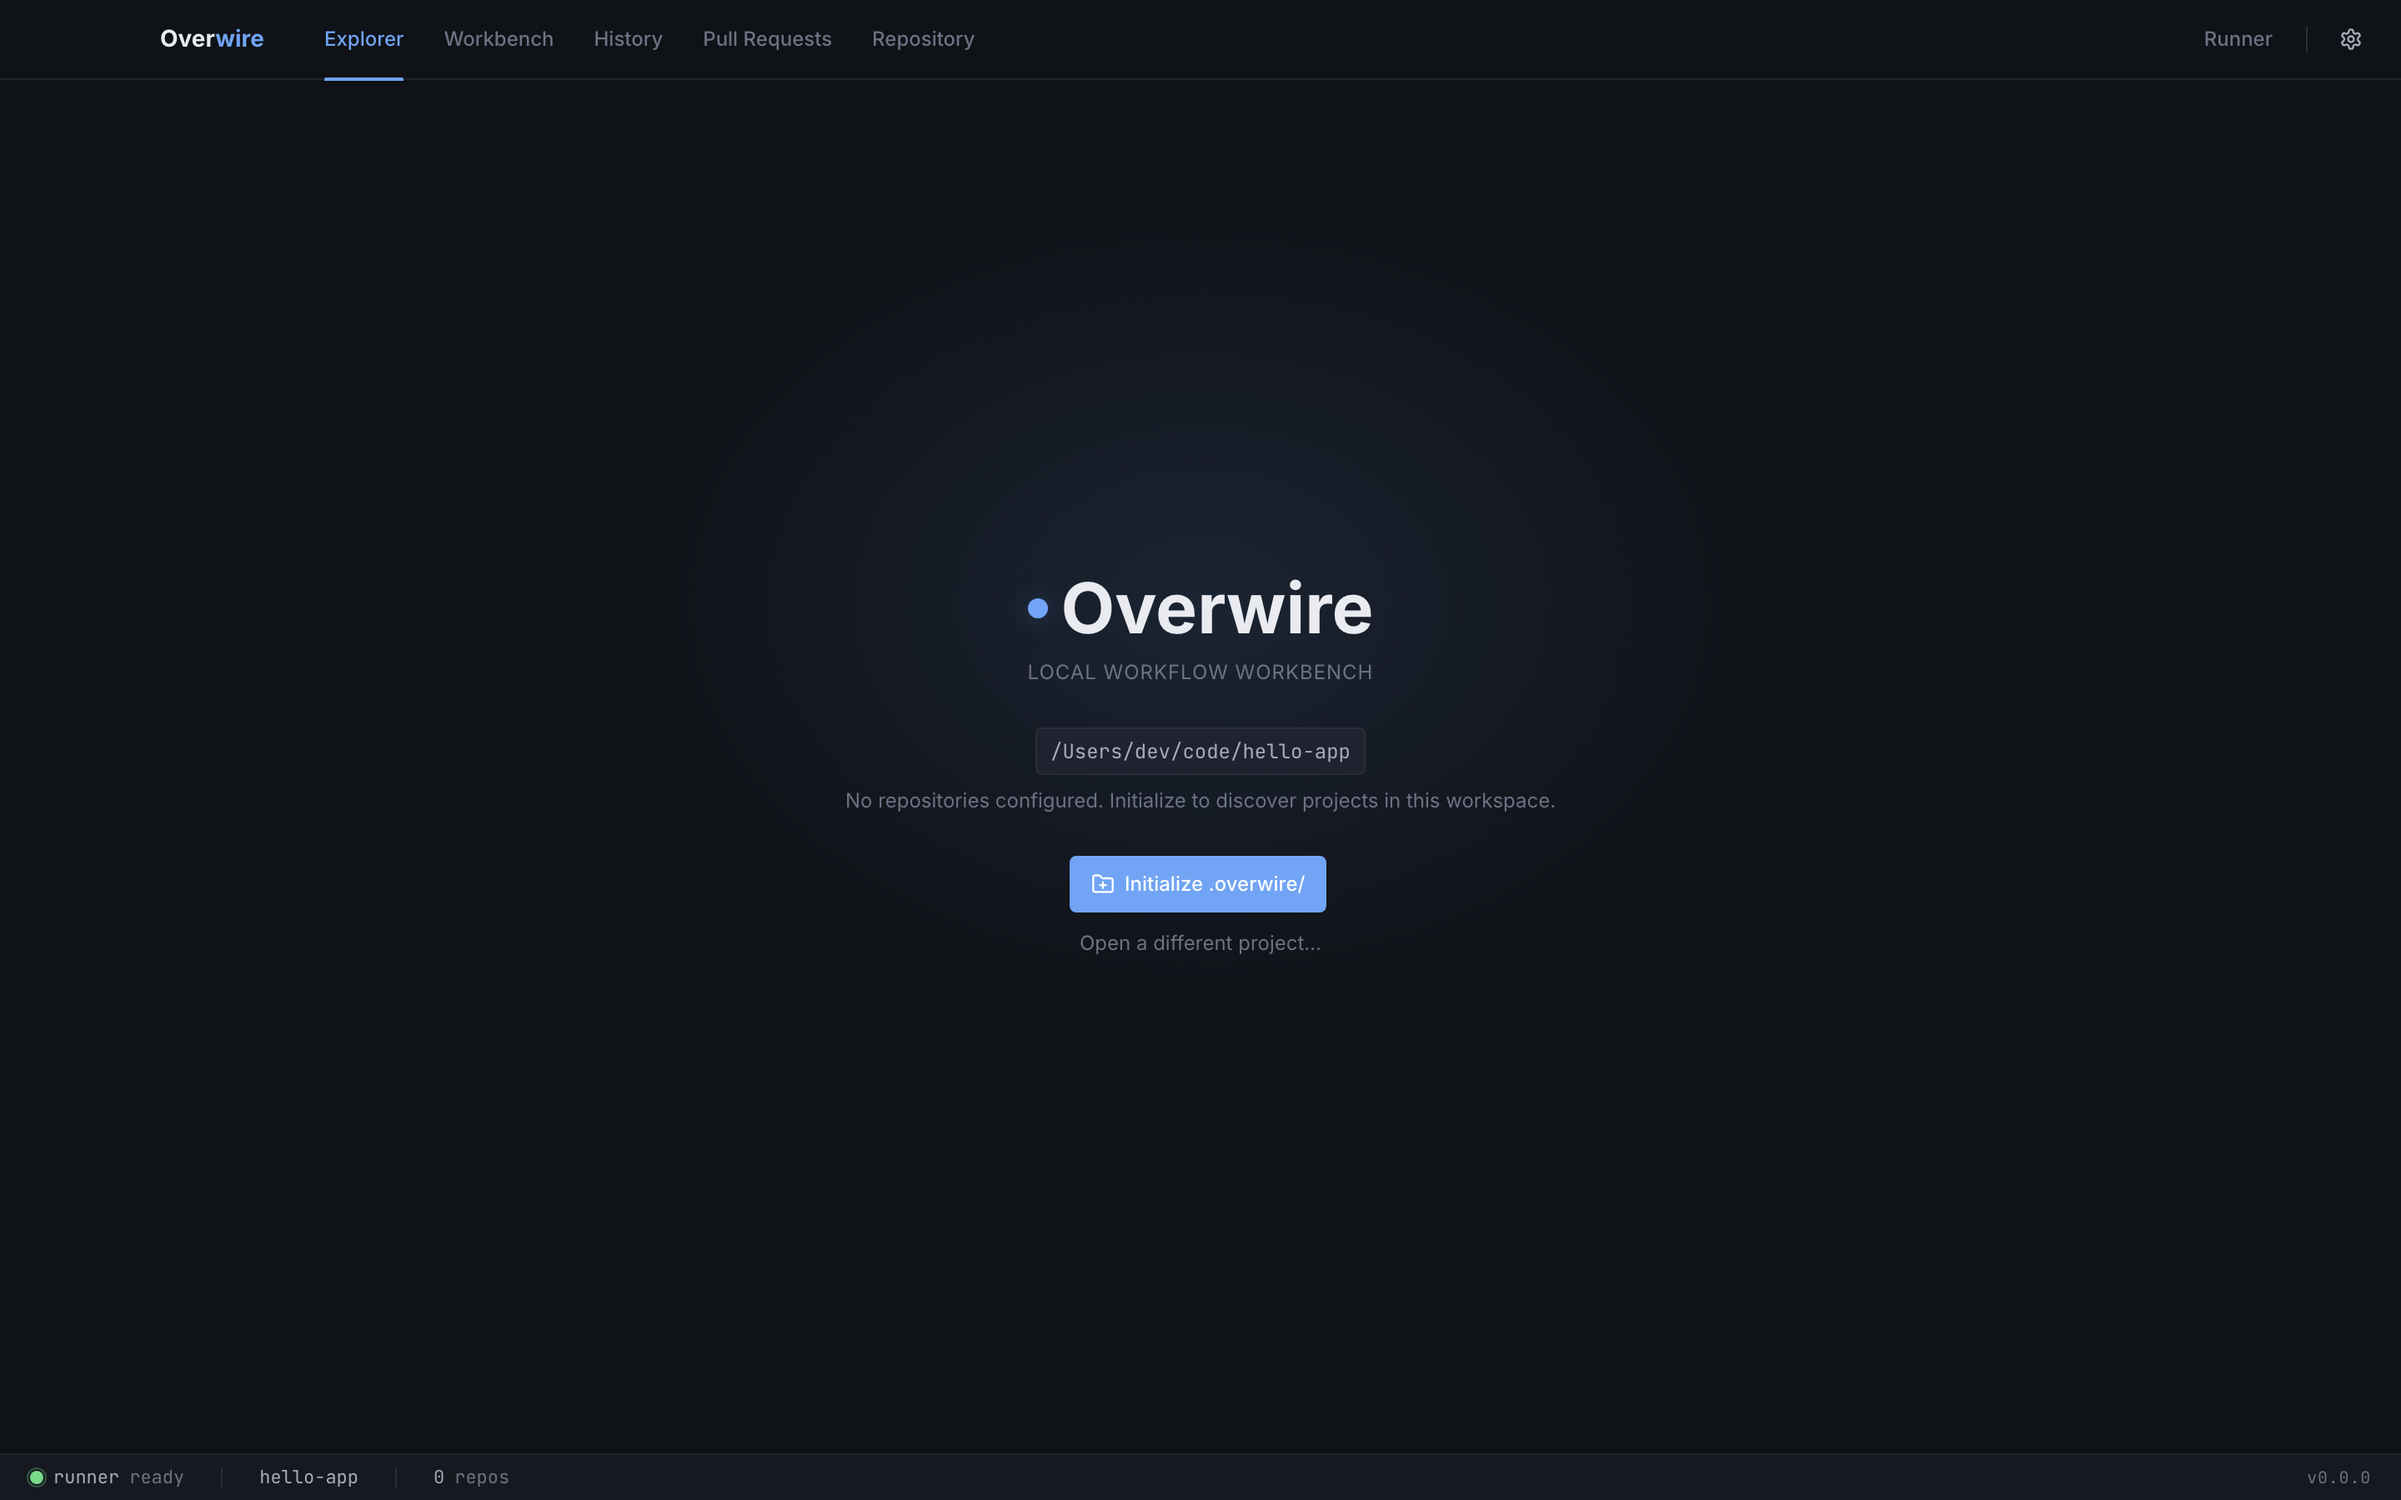
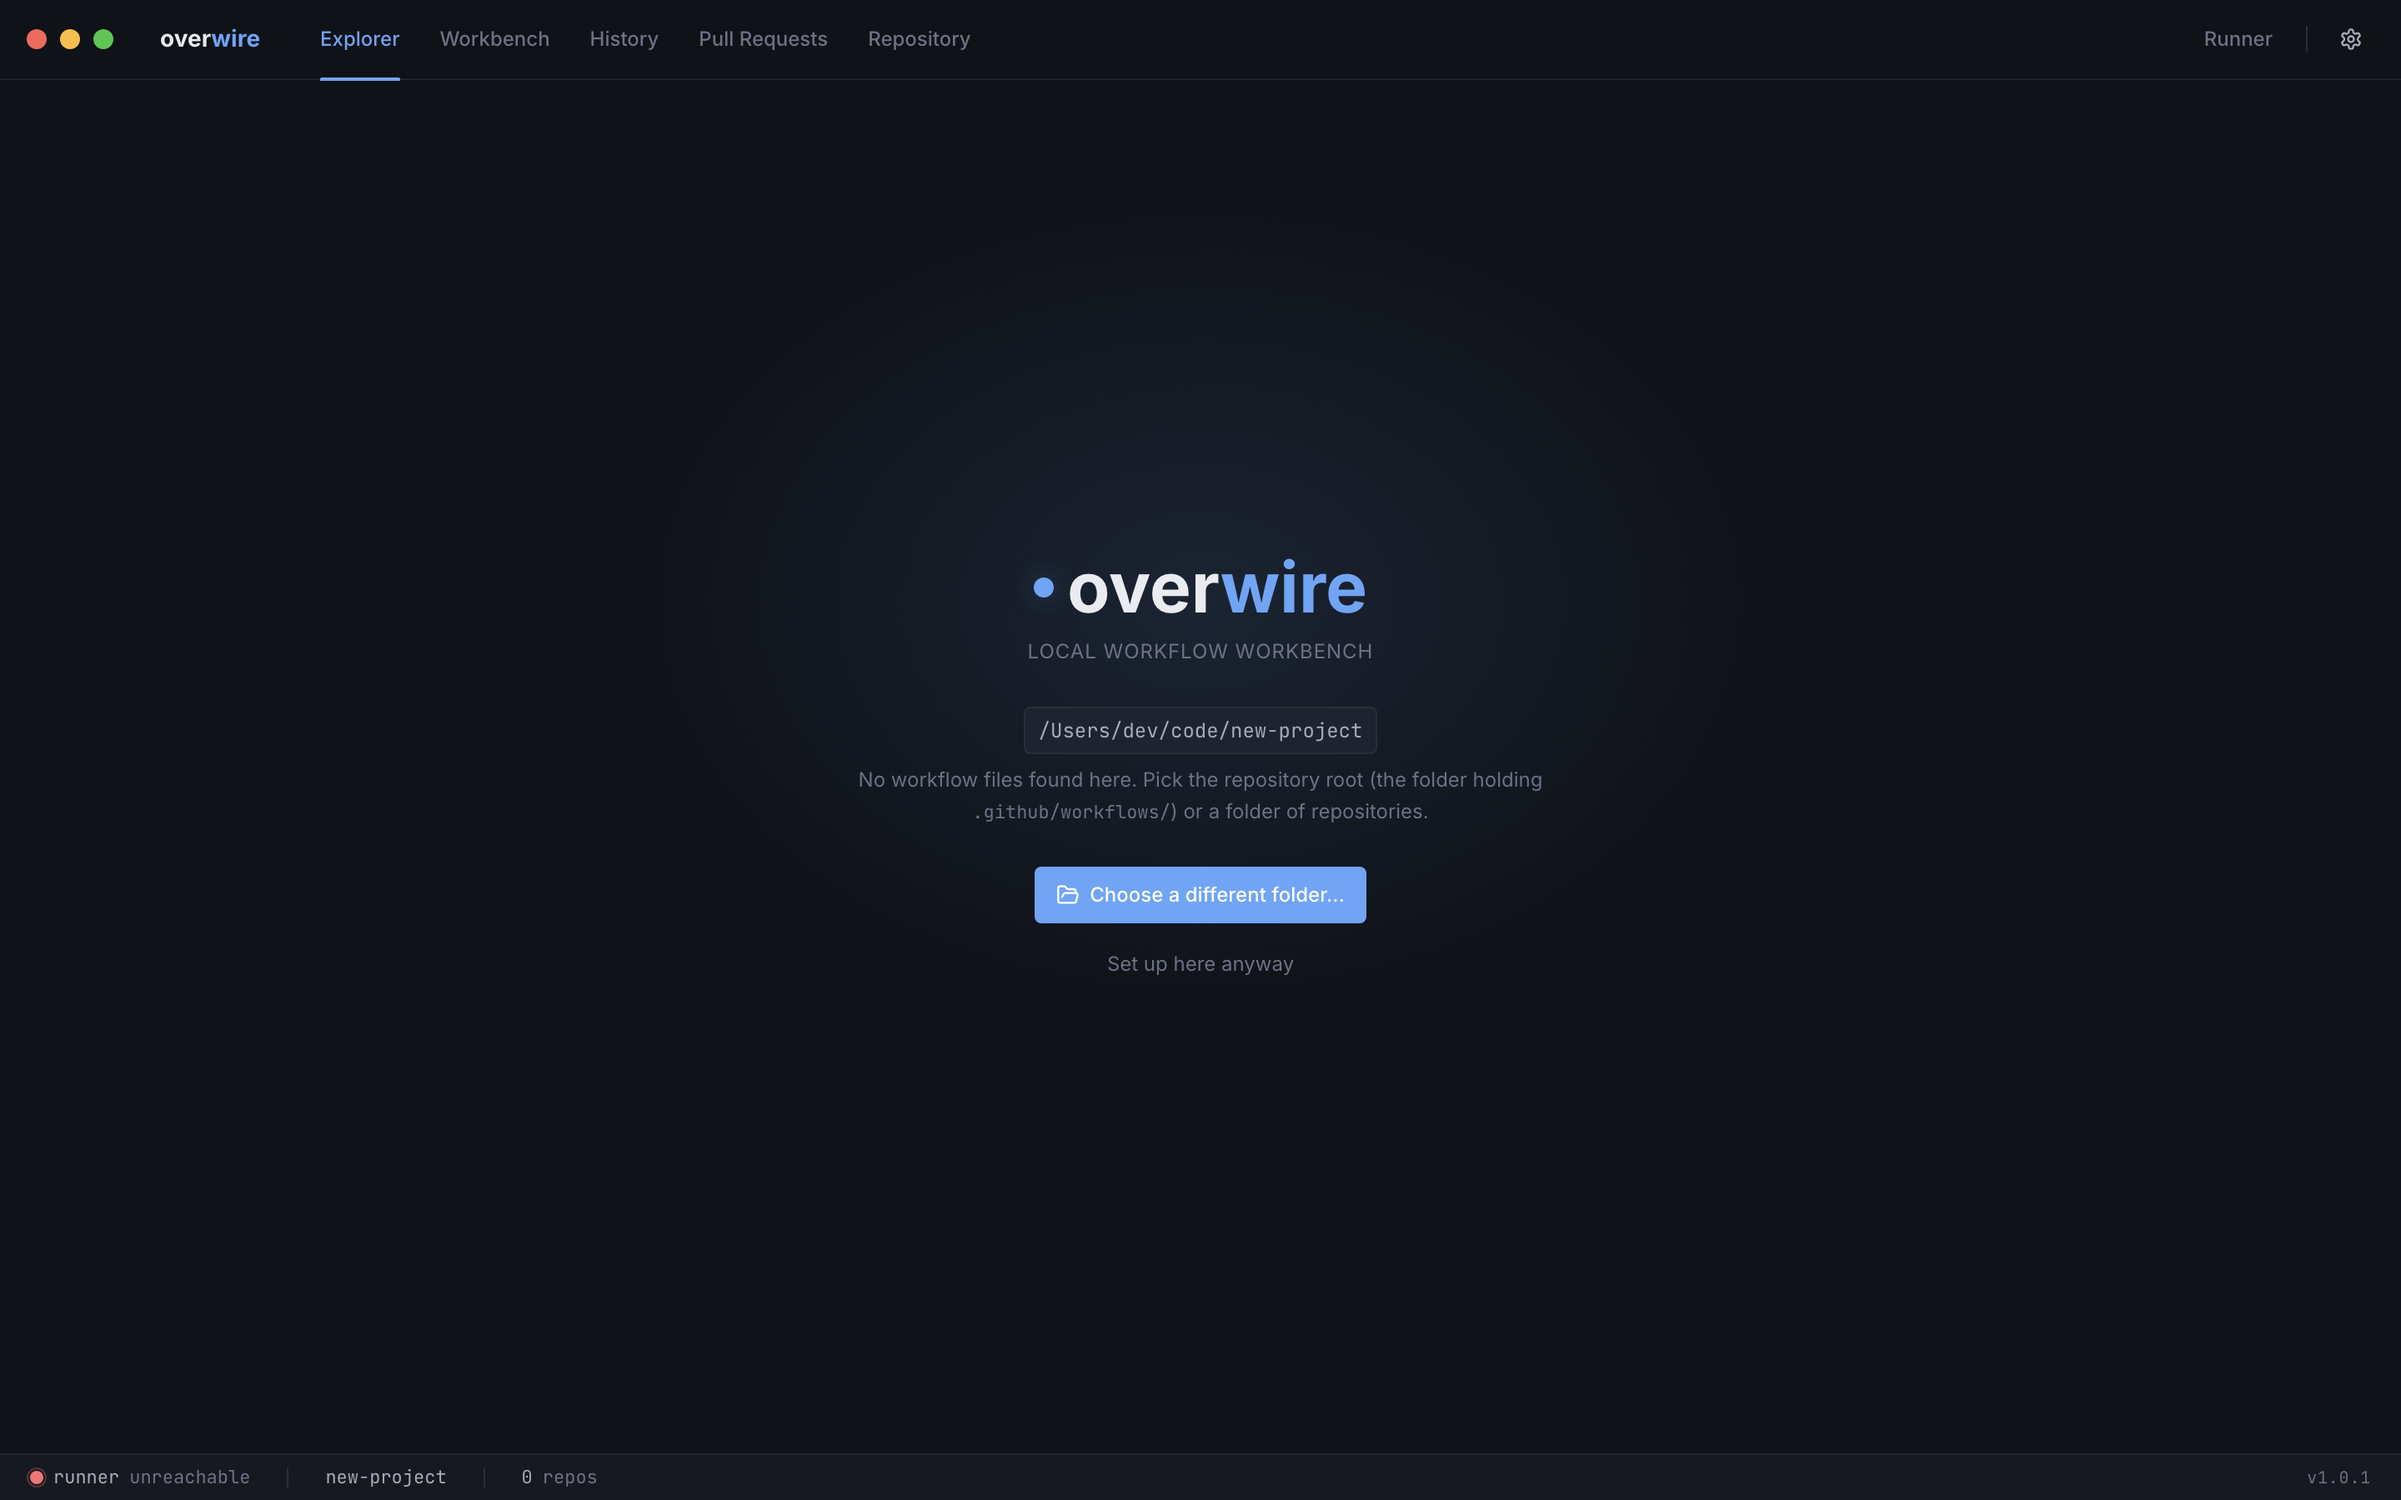
docs: first-launch setup matches 1.0.1 (auto-init, built-in demo)
Opening a repo now sets up automatically; the initialize splash became a
guidance screen for workflow-free folders. Refresh the three setup
screenshots and point the demo guide at the in-app Try the demo entry.

diff --git a/src/content/docs/getting-started/initialize.md b/src/content/docs/getting-started/initialize.md
@@ -56,9 +56,9 @@ The app starts on an open-project screen until you point it at a directory:
 
 ![The open-project screen on first launch](../../../assets/app/setup--open-project.png)
 
-Opening a directory without a `.overwire/` tree shows a splash screen with an initialize action that does the same scaffolding, including child-repo auto-discovery:
+Opening a repository — or a folder of repositories — sets it up automatically: the app scaffolds `.overwire/` (including the `.gitignore` and child-repo auto-discovery) and announces it, with no separate initialize step. Only a directory with no workflow files anywhere shows a guidance screen instead, with a **Set up here anyway** action for repositories you are starting from scratch:
 
-![The initialize splash for a directory that has no .overwire tree yet](../../../assets/app/setup--initialize.png)
+![The guidance screen for a directory with no workflow files](../../../assets/app/setup--initialize.png)
 
 ## Next step
 

diff --git a/src/content/docs/getting-started/demo.md b/src/content/docs/getting-started/demo.md
@@ -9,6 +9,8 @@ sidebar:
 
 ## Get it
 
+The desktop app ships with the single-repo demo built in — click **Try the demo** at the bottom of the start screen for a ready-to-run copy, no clone needed. To explore everything (or drive the demos from the CLI), clone the repository:
+
 ```sh
 git clone https://github.com/overwire/demo.git
 ```
